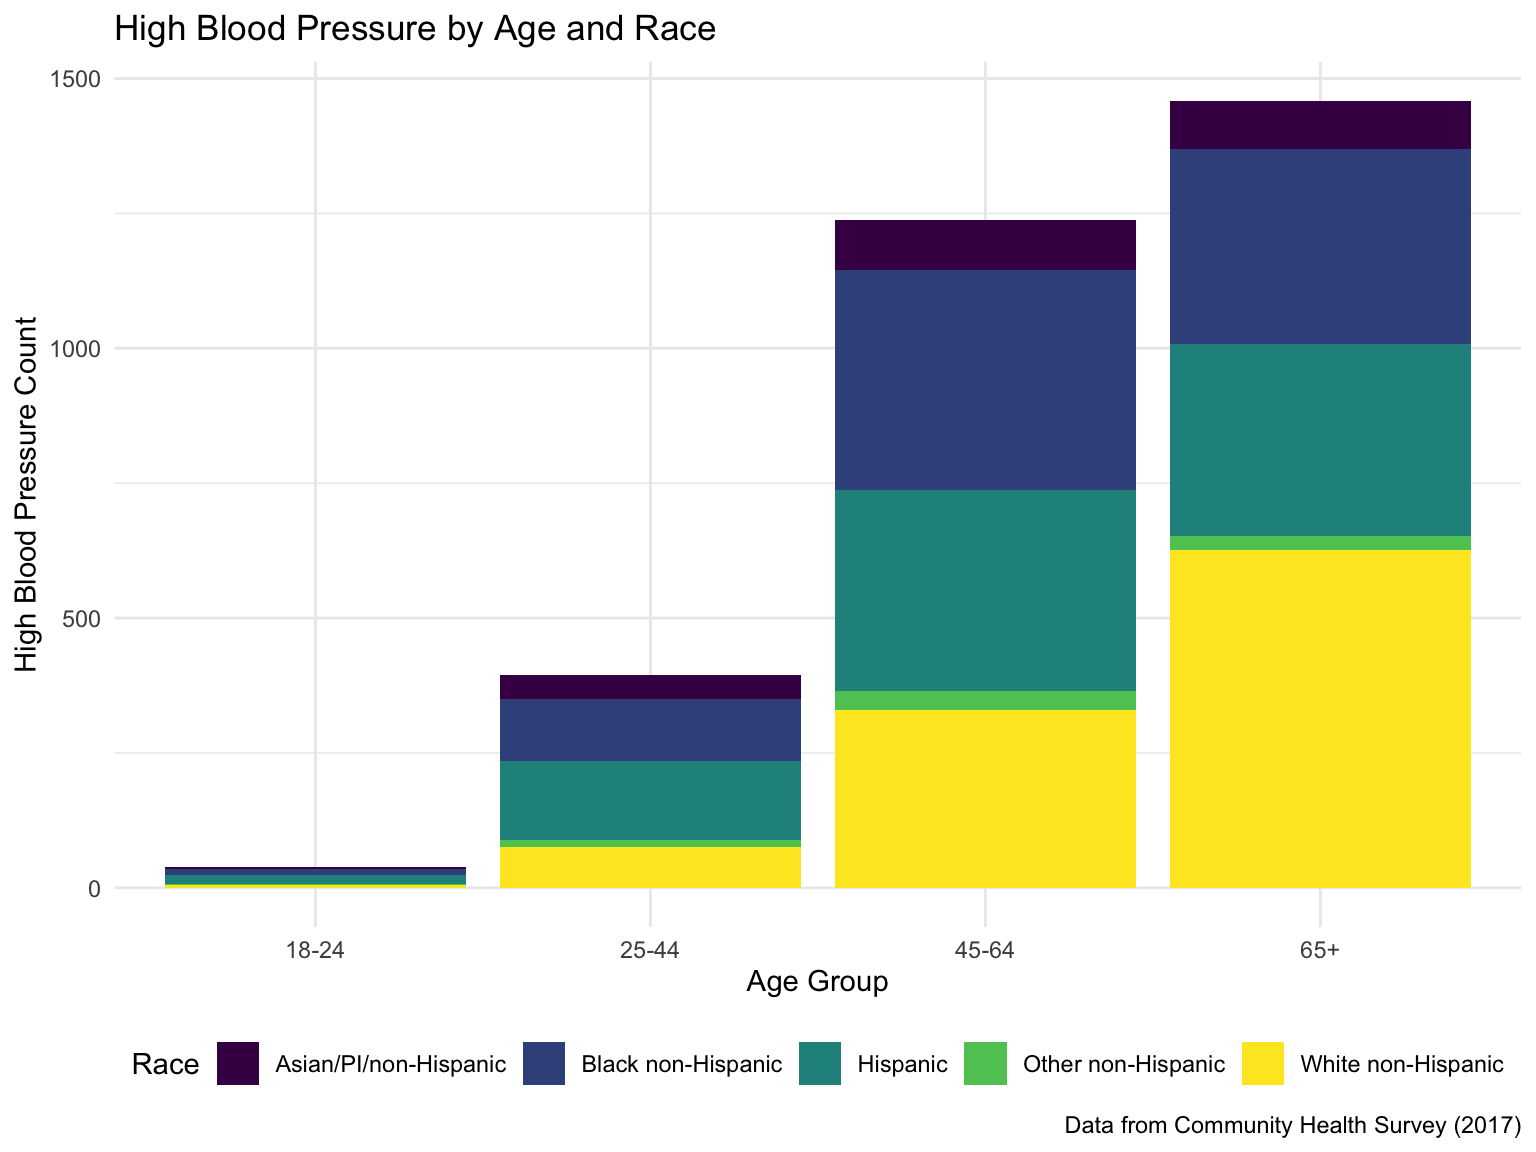
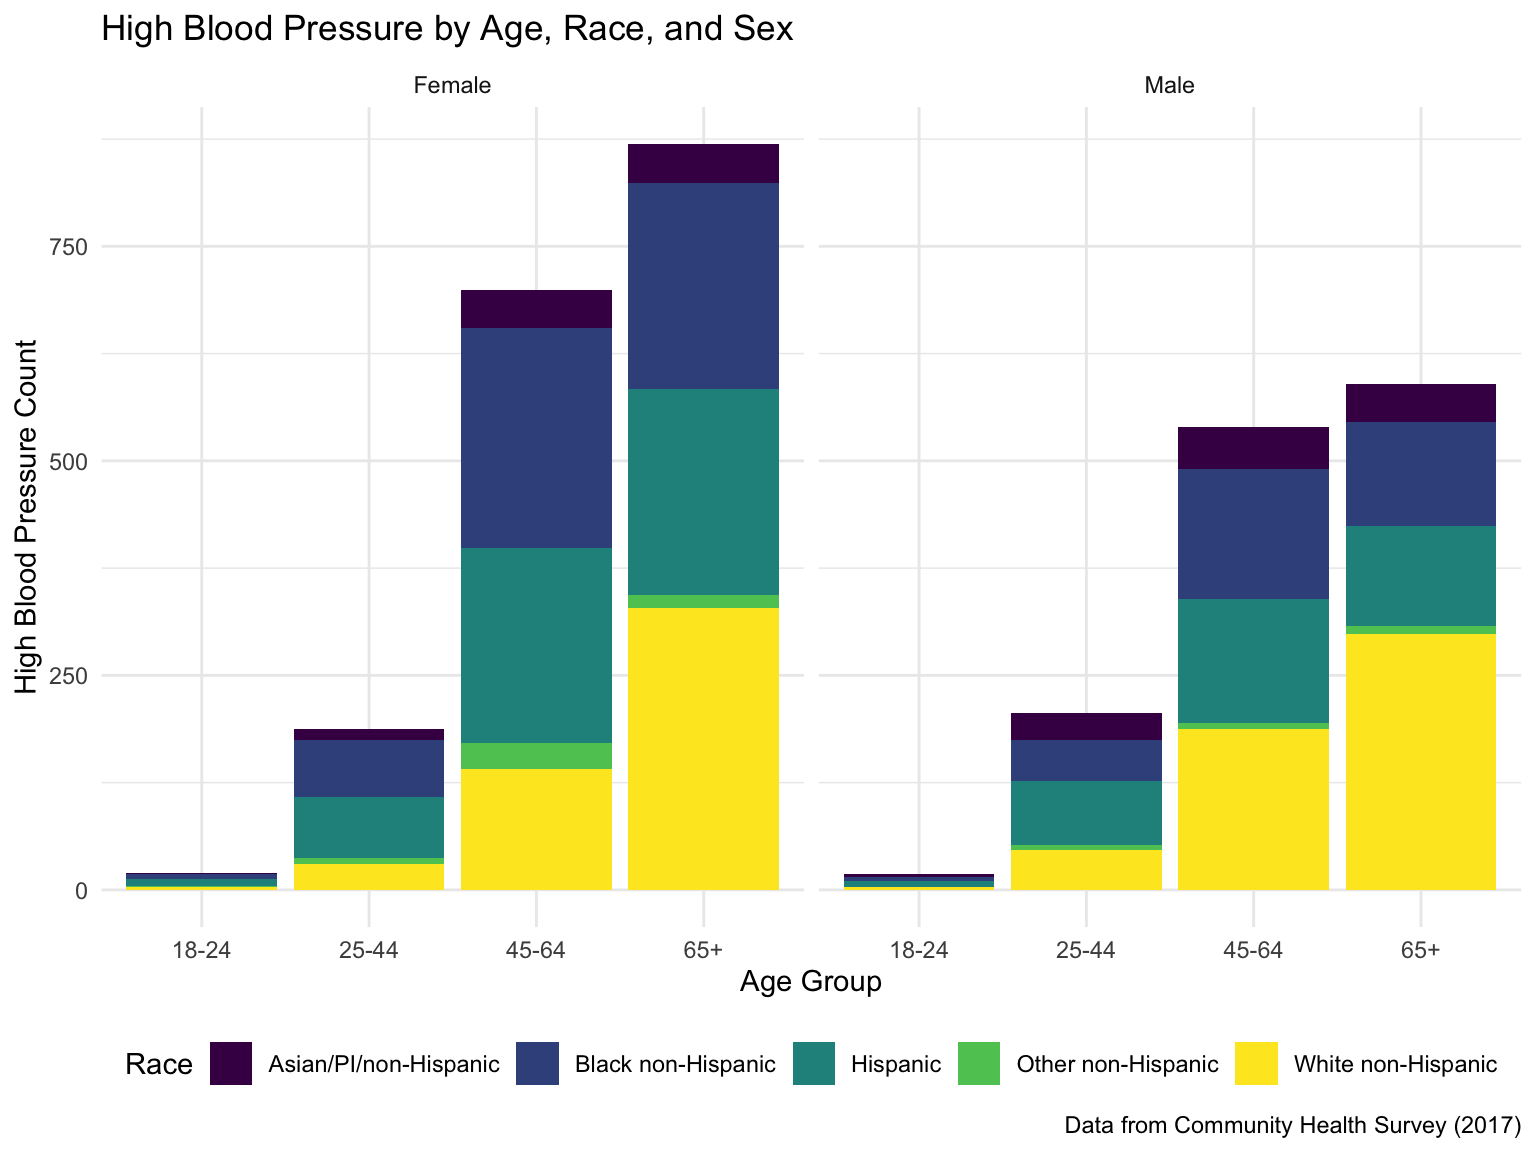
Edited bar charts of food insecurity and chronic health outcomes by age, race, and sex for exploratory analysis. Organized page by including headers and descriptions.

diff --git a/data_analysis.html b/data_analysis.html
@@ -24,6 +24,7 @@
 <link href="site_libs/tocify-1.9.1/jquery.tocify.css" rel="stylesheet" />
 <script src="site_libs/tocify-1.9.1/jquery.tocify.js"></script>
 <script src="site_libs/navigation-1.1/tabsets.js"></script>
+<script src="site_libs/navigation-1.1/codefolding.js"></script>
 <link href="site_libs/highlightjs-9.12.0/default.css" rel="stylesheet" />
 <script src="site_libs/highlightjs-9.12.0/highlight.js"></script>
 <link href="site_libs/font-awesome-5.1.0/css/all.css" rel="stylesheet" />
@@ -250,6 +251,9 @@ $(document).ready(function () {
 </style>
 
 <!-- code folding -->
+<style type="text/css">
+.code-folding-btn { margin-bottom: 4px; }
+</style>
 
 
 
@@ -365,6 +369,14 @@ div.tocify {
 
 <div class="fluid-row" id="header">
 
+<div class="btn-group pull-right">
+<button type="button" class="btn btn-default btn-xs dropdown-toggle" data-toggle="dropdown" aria-haspopup="true" aria-expanded="false"><span>Code</span> <span class="caret"></span></button>
+<ul class="dropdown-menu" style="min-width: 50px;">
+<li><a id="rmd-show-all-code" href="#">Show All Code</a></li>
+<li><a id="rmd-hide-all-code" href="#">Hide All Code</a></li>
+</ul>
+</div>
+
 
 
 <h1 class="title toc-ignore">Data Analysis</h1>
@@ -373,16 +385,19 @@ div.tocify {
 
 
 <pre class="r"><code>library(tidyverse)</code></pre>
-<pre><code>## ── Attaching packages ──────────────────────────────────────────────────────────────────── tidyverse 1.2.1 ──</code></pre>
+<pre><code>## ── Attaching packages ───────────────────────────────────────────────── tidyverse 1.2.1 ──</code></pre>
 <pre><code>## ✔ ggplot2 3.2.1     ✔ purrr   0.3.3
 ## ✔ tibble  2.1.3     ✔ dplyr   0.8.3
 ## ✔ tidyr   1.0.0     ✔ stringr 1.4.0
 ## ✔ readr   1.3.1     ✔ forcats 0.4.0</code></pre>
-<pre><code>## ── Conflicts ─────────────────────────────────────────────────────────────────────── tidyverse_conflicts() ──
+<pre><code>## ── Conflicts ──────────────────────────────────────────────────── tidyverse_conflicts() ──
 ## ✖ dplyr::filter() masks stats::filter()
 ## ✖ dplyr::lag()    masks stats::lag()</code></pre>
 <pre class="r"><code>library(patchwork)
 library(haven)
+library(gganimate)
+library(gifski)
+library(ggplot2)
 data &lt;- read_sas(&quot;data/chs2017_public.sas7bdat&quot;)
 
 knitr::opts_chunk$set(
@@ -454,16 +469,19 @@ theme_set(theme_minimal() + theme(legend.position = &quot;bottom&quot;))</code><
          &quot;Sex&quot; = sex,
          &quot;Race&quot; = newrace) %&gt;% 
   drop_na()</code></pre>
+<div id="exploratory-analyses" class="section level2">
+<h2>Exploratory Analyses</h2>
+<p>We assessed the distribution of food insecurity and select chronic health outcomes by age, race, and sex.</p>
 <pre class="r"><code>##Creating five individual bar charts to represent the distribution of the outcomes against age and race.
 
 plot1 = 
 data_clean %&gt;% 
-  select(Age, Food_Insecure, Race) %&gt;% 
-  count(Age, Food_Insecure, Race) %&gt;% 
-  group_by(Age, Race) %&gt;% 
+  select(Age, Food_Insecure, Race, Sex) %&gt;% 
+  count(Age, Food_Insecure, Race, Sex) %&gt;% 
+  group_by(Age, Race, Sex) %&gt;% 
   mutate(
     total = sum(n)) %&gt;% 
-  filter(Food_Insecure == &quot;Yes&quot;) %&gt;% 
+  filter(Food_Insecure == &quot;1&quot;) %&gt;% 
   mutate(
     Total_Insecure = sum(n),
     Proportion = Total_Insecure / total)
@@ -472,18 +490,19 @@ data_clean %&gt;%
 plot1 %&gt;% 
 ggplot() +
   geom_col(aes(x = Age, y = Total_Insecure, fill = Race)) +
+  facet_wrap(Sex ~.) +
   labs(
     x = &quot;Age Group&quot;,
     y = &quot;Food Insecure Count&quot;,
-    title = &quot;Food Insecurity by Age and Race&quot;,
+    title = &quot;Food Insecurity by Age, Race, and Sex&quot;,
     caption = &quot;Data from Community Health Survey (2017)&quot;
   )</code></pre>
 <p><img src="data_analysis_files/figure-html/unnamed-chunk-3-1.png" width="90%" /></p>
 <pre class="r"><code>plot2 = 
 data_clean %&gt;% 
-  select(Age, Obesity, Race) %&gt;% 
-  count(Age, Obesity, Race) %&gt;% 
-  group_by(Age, Race) %&gt;% 
+  select(Age, Obesity, Race, Sex) %&gt;% 
+  count(Age, Obesity, Race, Sex) %&gt;% 
+  group_by(Age, Race, Sex) %&gt;% 
   mutate(
     total = sum(n)) %&gt;% 
   filter(Obesity == &quot;1&quot;) %&gt;% 
@@ -495,18 +514,19 @@ data_clean %&gt;%
 plot2 %&gt;% 
 ggplot() +
   geom_col(aes(x = Age, y = Total_Obese, fill = Race)) +
+  facet_wrap(Sex ~.) +
   labs(
     x = &quot;Age Group&quot;,
     y = &quot;Obesity Count&quot;,
-    title = &quot;Obesity by Age and Race&quot;,
+    title = &quot;Obesity by Age, Race, and Sex&quot;,
     caption = &quot;Data from Community Health Survey (2017)&quot;
   )</code></pre>
 <p><img src="data_analysis_files/figure-html/unnamed-chunk-3-2.png" width="90%" /></p>
 <pre class="r"><code>plot3 = 
 data_clean %&gt;% 
-  select(Age, Diabetes, Race) %&gt;% 
-  count(Age, Diabetes, Race) %&gt;% 
-  group_by(Age, Race) %&gt;% 
+  select(Age, Diabetes, Race, Sex) %&gt;% 
+  count(Age, Diabetes, Race, Sex) %&gt;% 
+  group_by(Age, Race, Sex) %&gt;% 
   mutate(
     total = sum(n)) %&gt;% 
   filter(Diabetes == &quot;1&quot;) %&gt;% 
@@ -518,18 +538,19 @@ data_clean %&gt;%
 plot3 %&gt;% 
 ggplot() +
   geom_col(aes(x = Age, y = Total_Diabetes, fill = Race)) +
+  facet_wrap(Sex ~.) +
   labs(
     x = &quot;Age Group&quot;,
     y = &quot;Diabetes Count&quot;,
-    title = &quot;Diabetes by Age and Race&quot;,
+    title = &quot;Diabetes by Age, Race, and Sex&quot;,
     caption = &quot;Data from Community Health Survey (2017)&quot;
   )</code></pre>
 <p><img src="data_analysis_files/figure-html/unnamed-chunk-3-3.png" width="90%" /></p>
 <pre class="r"><code>plot4 = 
 data_clean %&gt;% 
-  select(Age, High_BP, Race) %&gt;% 
-  count(Age, High_BP, Race) %&gt;% 
-  group_by(Age, Race) %&gt;% 
+  select(Age, High_BP, Race, Sex) %&gt;% 
+  count(Age, High_BP, Race, Sex) %&gt;% 
+  group_by(Age, Race, Sex) %&gt;% 
   mutate(
     total = sum(n)) %&gt;% 
   filter(High_BP == &quot;1&quot;) %&gt;% 
@@ -541,18 +562,19 @@ data_clean %&gt;%
 plot4 %&gt;% 
 ggplot() +
   geom_col(aes(x = Age, y = Total_High_BP, fill = Race)) +
+  facet_wrap(Sex ~.) +
   labs(
     x = &quot;Age Group&quot;,
     y = &quot;High Blood Pressure Count&quot;,
-    title = &quot;High Blood Pressure by Age and Race&quot;,
+    title = &quot;High Blood Pressure by Age, Race, and Sex&quot;,
     caption = &quot;Data from Community Health Survey (2017)&quot;
   )</code></pre>
 <p><img src="data_analysis_files/figure-html/unnamed-chunk-3-4.png" width="90%" /></p>
 <pre class="r"><code>plot5 = 
 data_clean %&gt;% 
-  select(Age, Depression, Race) %&gt;% 
-  count(Age, Depression, Race) %&gt;% 
-  group_by(Age, Race) %&gt;% 
+  select(Age, Depression, Race, Sex) %&gt;% 
+  count(Age, Depression, Race, Sex) %&gt;% 
+  group_by(Age, Race, Sex) %&gt;% 
   mutate(
     total = sum(n)) %&gt;% 
   filter(Depression == &quot;1&quot;) %&gt;% 
@@ -563,99 +585,19 @@ data_clean %&gt;%
 plot5 %&gt;% 
 ggplot() +
   geom_col(aes(x = Age, y = Total_Depress, fill = Race)) +
+  facet_wrap(Sex ~.) +
   labs(
     x = &quot;Age Group&quot;,
     y = &quot;Depression Count&quot;,
-    title = &quot;Depression by Age and Race&quot;, 
+    title = &quot;Depression by Age, Race, and Sex&quot;, 
     caption = &quot;Data from Community Health Survey (2017)&quot;
   )</code></pre>
 <p><img src="data_analysis_files/figure-html/unnamed-chunk-3-5.png" width="90%" /></p>
-<pre class="r"><code>data_longer =
-data_clean %&gt;% 
-  pivot_longer(
-    Food_Insecure:Depression,
-    names_to = &quot;outcome&quot;, 
-    values_to = &quot;n&quot;,
-    names_repair = &quot;minimal&quot;
-  ) %&gt;% 
-  rename(&quot;case&quot; = n) %&gt;% 
-  filter(case == 1) %&gt;% 
-  group_by(Age, Race) %&gt;% 
-  summarize(outcome = n()) </code></pre>
-<pre class="r"><code>##Calculating the proportion of cases for each of the five outcomes, and overlaying the proportions in one figure.
-
-Food_Insecure = 
-data_clean %&gt;% 
-  select(Age, Food_Insecure) %&gt;% 
-  count(Age, Food_Insecure) %&gt;% 
-  group_by(Age) %&gt;% 
-  mutate(
-    total = sum(n)) %&gt;% 
-  filter(Food_Insecure == &quot;1&quot;) %&gt;% 
-  mutate(
-    Total_Insecure = sum(n),
-    Proportion = Total_Insecure / total)
-
-Obesity = 
-data_clean %&gt;% 
-  select(Age, Obesity) %&gt;% 
-  count(Age, Obesity) %&gt;% 
-  group_by(Age) %&gt;% 
-  mutate(
-    total = sum(n)) %&gt;% 
-  filter(Obesity == &quot;1&quot;) %&gt;% 
-  mutate(
-    Total_Obese = sum(n),
-    Proportion = Total_Obese / total)
-
-Diabetes = 
-data_clean %&gt;% 
-  select(Age, Diabetes) %&gt;% 
-  count(Age, Diabetes) %&gt;% 
-  group_by(Age) %&gt;% 
-  mutate(
-    total = sum(n)) %&gt;% 
-  filter(Diabetes == &quot;1&quot;) %&gt;% 
-  mutate(
-    Total_Diabetes = sum(n),
-    Proportion = Total_Diabetes / total)
-
-High_BP = 
-data_clean %&gt;% 
-  select(Age, High_BP) %&gt;% 
-  count(Age, High_BP) %&gt;% 
-  group_by(Age) %&gt;% 
-  mutate(
-    total = sum(n)) %&gt;% 
-  filter(High_BP == &quot;1&quot;) %&gt;% 
-  mutate(
-    Total_High_BP = sum(n),
-    Proportion = Total_High_BP / total)
-
-Depression = 
-data_clean %&gt;% 
-  select(Age, Depression) %&gt;% 
-  count(Age, Depression) %&gt;% 
-  group_by(Age) %&gt;% 
-  mutate(
-    total = sum(n)) %&gt;% 
-  filter(Depression == &quot;1&quot;) %&gt;% 
-  mutate(
-    Total_Depress = sum(n),
-    Proportion = Total_Depress / total)
-
-ggplot() +
-  geom_line(data = Food_Insecure, (aes(x = Age, y = Proportion, group = 1, color = &quot;Food Insecure&quot;))) +
-  geom_line(data = Obesity, (aes(x = Age, y = Proportion, group = 1, color = &quot;Obesity&quot;))) +
-  geom_line(data = Diabetes, (aes(x = Age, y = Proportion, group = 1, color = &quot;Diabetes&quot;))) +
-  geom_line(data = High_BP, (aes(x = Age, y = Proportion, group = 1, color = &quot;High BP&quot;))) +
-  geom_line(data = Depression, (aes(x = Age, y = Proportion, group = 1, color = &quot;Depression&quot;))) +
-  labs(
-    title = &quot;Proportion of Cases by Age Group&quot;,
-    x = &quot;Age Group&quot;,
-    y = &quot;Proportion&quot;,
-    caption = &quot;Data from Community Health Survey (2017)&quot;) </code></pre>
-<p><img src="data_analysis_files/figure-html/unnamed-chunk-5-1.png" width="90%" /></p>
+</div>
+<div id="logistic-regression" class="section level2">
+<h2>Logistic Regression</h2>
+<p>The association between food insecurity and the following chronic health outcomes were assessed via logistic regression, adjusting for race, sex, age.</p>
+<p><strong>Obesity</strong></p>
 <pre class="r"><code>fit_logistic_obesity = 
   data_clean %&gt;% 
   glm(Obesity ~ Food_Insecure + Age + Sex + Race, data = ., family = binomial())
@@ -761,6 +703,7 @@ fit_logistic_obesity %&gt;%
 </tr>
 </tbody>
 </table>
+<p><strong>High Blood Pressure</strong></p>
 <pre class="r"><code>fit_logistic_High_BP = 
   data_clean %&gt;% 
   glm(High_BP ~ Food_Insecure + Age + Sex + Race, data = ., family = binomial())
@@ -866,6 +809,7 @@ fit_logistic_High_BP %&gt;%
 </tr>
 </tbody>
 </table>
+<p><strong>Depression</strong></p>
 <pre class="r"><code>fit_logistic_Depression = 
   data_clean %&gt;% 
   glm(Depression ~ Food_Insecure + Age + Sex + Race, data = ., family = binomial())
@@ -971,6 +915,7 @@ fit_logistic_Depression %&gt;%
 </tr>
 </tbody>
 </table>
+<p><strong>Diabetes</strong></p>
 <pre class="r"><code>fit_logistic_Diabetes = 
   data_clean %&gt;% 
   glm(Diabetes ~ Food_Insecure + Age + Sex + Race, data = ., family = binomial())
@@ -1076,6 +1021,9 @@ fit_logistic_Diabetes %&gt;%
 </tr>
 </tbody>
 </table>
+</div>
+<div id="summary-of-logistic-regression-findings" class="section level2">
+<h2>Summary of Logistic Regression Findings</h2>
 <pre class="r"><code>oddsratios_full = tibble(
   outcome = c(&quot;Obesity&quot;, &quot;High BP&quot;, &quot;Depression&quot;, &quot;Diabetes&quot;),
   OR = c(1.111, 1.555, 4.422, 1.491),
@@ -1094,7 +1042,8 @@ oddsratios_full %&gt;%
   labs(
     caption = &quot;Data from Community Health Survey (2017)&quot;
   )</code></pre>
-<p><img src="data_analysis_files/figure-html/unnamed-chunk-10-1.png" width="90%" /></p>
+<p><img src="data_analysis_files/figure-html/unnamed-chunk-8-1.png" width="90%" /></p>
+</div>
 
 
 
@@ -1131,6 +1080,11 @@ $(document).ready(function () {
 </script>
 
 <!-- code folding -->
+<script>
+$(document).ready(function () {
+  window.initializeCodeFolding("hide" === "show");
+});
+</script>
 
 <script>
 $(document).ready(function ()  {
